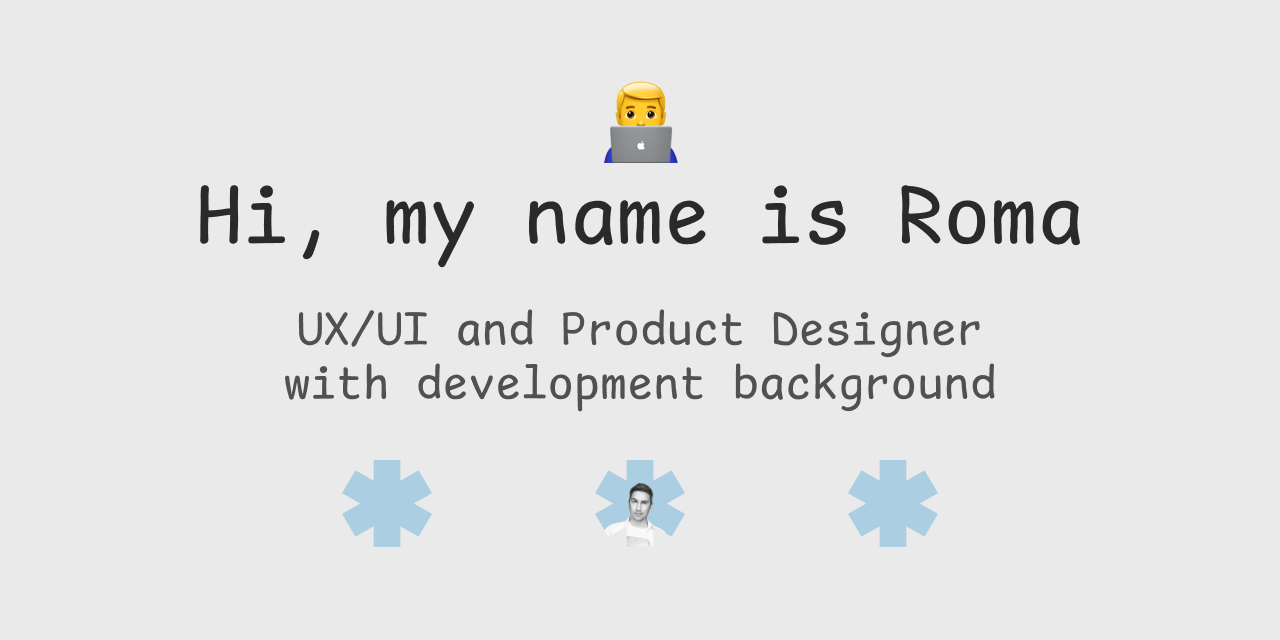
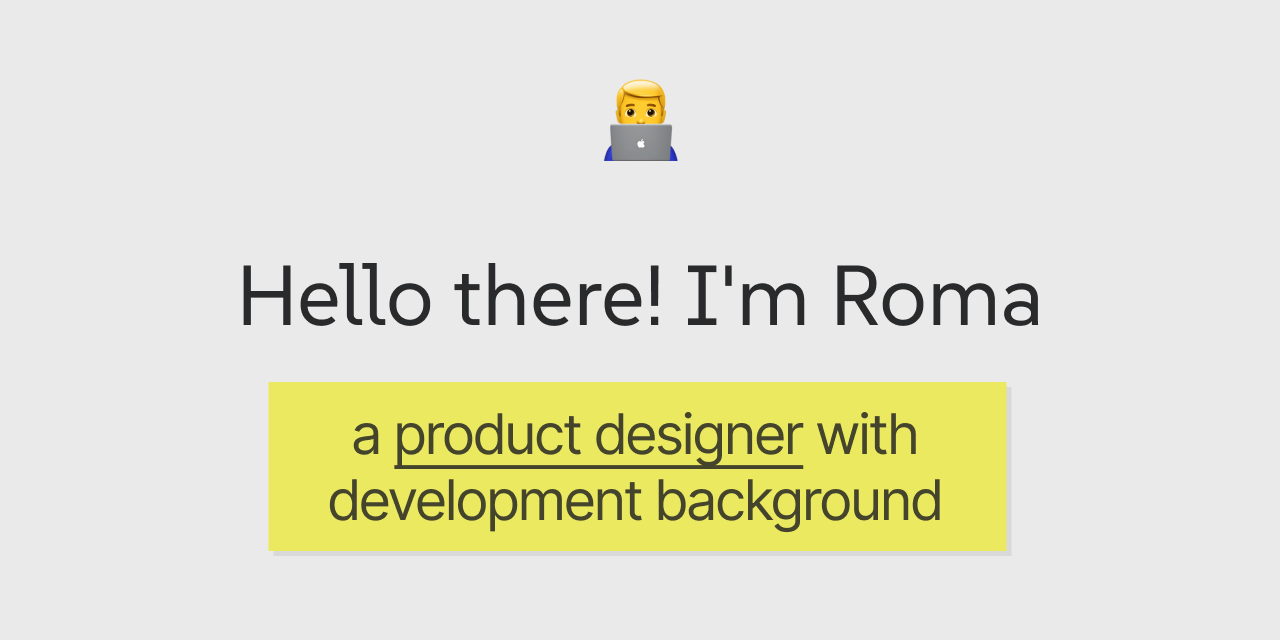
Update css and fonts

diff --git a/index.html b/index.html
@@ -7,26 +7,27 @@
   <meta name="viewport" content="width=device-width, initial-scale=1">
   <meta http-equiv="X-UA-Compatible" content="IE=edge">
   <!-- Site Properities-->
-  <title>👨💻 Roma Shuliatiev: UX/UI Designer with technical background</title>
-  <link rel="icon" type="image/svg+xml" href="favicon/favicon.svg">
-  <link rel="icon" type="image/png" href="favicon/favicon.png">
+  <title>Roma Shuliatiev: Product Designer</title>
+  <link rel="icon" href="favicon.ico" sizes="32x32">
+  <link rel="icon" href="icon.svg" type="image/svg+xml">
+  <link rel="apple-touch-icon" href="apple-touch-icon.png">
   <link rel="stylesheet" type="text/css" href="css/style.css" />
 
   <!-- Open Graph / Facebook -->
-  <meta name="title" content="👨💻 Roma Shuliatiev: UX/UI Designer with technical background" />
+  <meta name="title" content="Roma Shuliatiev: Product Designer" />
   <meta name="description" content="I design interfaces and help companies achieve their business goals" />
-  <meta name="theme-color" content="#9C9CDD">
-  <meta name="description" content="Roman Shuliatiev — UX/UI Designer with technical background" />
+  <meta name="theme-color" content="#FF4552">
+  <meta name="description" content="Roma Shuliatiev: Product Designer" />
   <meta name="apple-mobile-web-app-capable" content="yes">
   <meta name="apple-mobile-web-app-status-bar-style" content="black">
-  <meta name="apple-mobile-web-app-title" content="Roman Shuliatiev — UX/UI Designer with technical background">
-  <meta name="title" content="👋 Roman Shuliatiev — UX/UI Designer with technical background" />
+  <meta name="apple-mobile-web-app-title" content="Roma Shuliatiev: Product Designer">
+  <meta name="title" content="Roma Shuliatiev: Product Designer" />
   <meta name="description" content="I design interfaces and help companies achieve their business goals." />
 
   <!-- Open Graph / Facebook -->
   <meta property="og:type" content="website" />
   <meta property="og:url" content="https://n-apps.github.io/" />
-  <meta property="og:title" content="👨💻 Roma Shuliatiev: UX/UI Designer with technical background" />
+  <meta property="og:title" content="Roma Shuliatiev: Product Designer" />
   <meta property="og:description" content="I design interfaces and help companies achieve their business goals" />
   <meta property="og:image"
     content="https://raw.githubusercontent.com/n-apps/n-apps.github.io/master/images/social.jpg" />
@@ -35,7 +36,7 @@
   <!-- Twitter -->
   <meta property="twitter:card" content="summary_large_image" />
   <meta property="twitter:url" content="https://n-apps.github.io/" />
-  <meta property="twitter:title" content="👨💻 Roma Shuliatiev: UX/UI Designer with technical background" />
+  <meta property="twitter:title" content="Roma Shuliatiev: Product Designer" />
   <meta property="twitter:description" content="I design interfaces and help companies achieve their business goals" />
   <meta property="twitter:image"
     content="https://raw.githubusercontent.com/n-apps/n-apps.github.io/master/images/social.jpg" />
@@ -48,15 +49,14 @@
     </r-cell>
 
     <r-cell span="2-3" span-s="row">
-      <h1>👨💻<br> Hi, my name is Roma</h1>
-      <h3>I'm a UX/UI and Product Designer with technical background</h3>
+      <h1>👨💻</h1>
+      <h1>hello there! I'm Roma, a product designer with technical background</h1>  
       <p>My passion and responsibility lie in simplifying things, reducing frustration for <strike>users</strike>
         people, and helping companies achieve their business goals. I rely on data analytics and prefer
-        to base my decisions on statistics rather than subjective judgments. I have a strong
-        technical background, but I also consider user feedback and gut feeling to be crucial elements of my work.</p>
+        to base my decisions on statistics rather than subjective judgments.</p>
         <p>I always aim to make the development process smooth and transparent for my team.
         I have a diverse range of experience, including software development, graphic design, and managing
-        a team of three designers. I know my tools and work plug & play in your team and project structure.</p>
+        a team of three designers. I have a strong technical background, but I also consider user feedback and gut feeling to be crucial elements of my work.</p>
     </r-cell>
    
     <r-cell span="1-1" span-s="row">
@@ -68,13 +68,13 @@
 
     <!-- Yesim -->
     <r-cell span="2-4" span-s="row">
-      <h2>Yesim — Worldwide eSIM marketplace</h2>
-      <p class="single-line">2021–2024 | WEB, iOS, Android, cross-platform | <a href="https://yesim.app/">About</a></p>
+      <h2><a href="https://yesim.app/">Yesim — Worldwide eSIM marketplace ↗</a></h2>
+      <p class="single-line opacity8">2021–2024 | WEB, iOS, Android</p>
     </r-cell>
     <r-cell span="2-4" span-s="row">
-      <h4>Project details</h4>
-      <p class="opacity5 single-line">NDA</p>
-      <h4>My job and responsibilities</h4>
+      <h3>Project details</h3>
+      <p class="opacity8 single-line">NDA</p>
+      <h3>My job and responsibilities</h3>
       <ul class="compact">
         <li>Collaboration with product and development teams</li>
         <li>Develop and design user-centered concepts, flows, wireframes, and prototypes</li>
@@ -87,13 +87,13 @@
 
     <!-- SMBF -->
     <r-cell span="2-4" span-s="row" style="margin-top: calc(var(--lineHeight) * 2);">
-      <h2>SMBF — Online reputation platform</h2>
-      <p class="single-line">2020–2021 | web | <a href="https://smbf.me/">About</a></p>
+      <h2><a href="https://smbf.me/">SMBF — Online reputation platform ↗</a></h2>
+      <p class="single-line opacity8">2020–2021 | WEB</p>
     </r-cell>
     <r-cell span="2-4" span-s="row">
-      <h4>Project details</h4>
-      <p class="single-line opacity5">NDA</p>
-      <h4>My job and responsibilities</h4>
+      <h3>Project details</h3>
+      <p class="opacity8 single-line">NDA</p>
+      <h3>My job and responsibilities</h3>
       <ul class="compact">
         <li>Collaboration with product and development teams</li>
         <li>Develop and design user-centered concepts, flows, wireframes, and prototypes</li>
@@ -105,13 +105,13 @@
 
     <!-- Eventssion -->
     <r-cell span="2-4" span-s="row" style="margin-top: calc(var(--lineHeight) * 2);">
-      <h2>Eventssion — Event management and online ticketing platform</h2>
-      <p>2018–2020 | web, app, offline</p>
+      <h2><a href="https://betalist.com/startups/eventssion">Eventssion — Event management and online ticketing platform ↗</a></h2>
+      <p class="single-line opacity8">2018–2020 | WEB, iOS, Android, offline</p>
     </r-cell>
     <r-cell span="2-4" span-s="row">
-      <h4>Project details</h4>
+      <h3>Project details</h3>
       <p class="opacity8">From scratch to 50K users, app/web/internal tools</p>
-      <h4>Job duties and responsibilities</h4>
+      <h3>Job duties and responsibilities</h3>
       <ul class="compact">
         <li>Collaboration with Product and Development Teams</li>
         <li>Participated in the development of two Android apps using Java and related tools</li>
@@ -132,26 +132,25 @@
 
     <!-- Счетчик Очков -->
     <r-cell span="2-4" span-s="row">
-      <h2>[App] Score Counter</h2>
-      <p>2016–2024 | <a href="https://play.google.com/store/apps/details?id=ua.napps.scorekeeper">Play Store
-          (Android)</a></p>
+      <h2><a href="https://play.google.com/store/apps/details?id=ua.napps.scorekeeper">Score Counter — Android App ↗</a></h2>
+      <p class="single-line opacity8">2016–2024 | Android</p>
     </r-cell>
 
     <r-cell span="2-3" span-s="row">
-      <h4>Project details</h4>
+      <h3>Project details</h3>
       <p>Score Counter — Count Anything is the perfect solution for game nights, sports competitions, or any activity
         where you need to keep track of scores on the fly. With its simple and customizable design, this app
         makes score counting quick and easy, without any interruptions from ads. Whether you're tracking initiative, hit
         points (HP), spell slots, or even win streaks in your bar game night, Score Counter has you covered.
       </p>
-      <h4>My role</h4>
+      <h3>My role</h3>
       <ul class="compact">
         <li>Conceptualization and ideation of project ideas</li>
         <li>Full-cycle development and publishing of projects, including all related activities</li>
       </ul>
     </r-cell>
     <r-cell span="2-3" span-s="row">
-      <h4>I was proud to achieve the following results ✨</h4>
+      <h3>I was proud to achieve the following results</h3>
       <ul class="compact">
         <li>Ranked #1 in Google Play search results</li>
         <li>470K installs / 35,000 MAU</li>
@@ -162,69 +161,33 @@
     </r-cell>
     </r-cell>
 
-    <!-- Math Trade -->
-    <r-cell span="2-4" span-s="row" style="margin-top: calc(var(--lineHeight) * 4  );">
-      <h2>[Concept] Design for the Math Trade portal</h2>
-      <p>2022 | <a href="https://www.behance.net/gallery/139747473/Math-Trade-UA-Website-Redesign">Concept (Behance)</a>
-      </p>
-    </r-cell>
+<!-- Параграфус -->
 
-    <r-cell span="2-3" span-s="row">
-      <h4>Project details</h4>
-      <p>«Math Trade» is a unique platform that facilitates a simultaneous exchange of board games between
-        multiple individuals. Users add their games to the platform and create a personalized wishlist. The
-        algorithm then determines the optimal exchange, determining which user should send their game to another.
-        This system offers an efficient and convenient way for hobby enthusiasts to trade their board games
-        with one another</p>
-    </r-cell>
-    <r-cell span="2-3" span-s="row">
-      <h4>My role</h4>
-      <p>Redesign the portal section <a href="https://tg.in.ua/">tg.in.ua</a>. This redesign served as the
-        foundation for future collaboration with the portal's authors.</p>
-    </r-cell>
+<r-cell span="2-4" span-s="row" style="margin-top: calc(var(--lineHeight) * 4);">
+  <h1>Paragraphus — Short Passages From Books</h1>
+  <p class="single-line opacity8">2020 | Android App [discontinued ☠]</p>
+</r-cell>
+<r-cell span="2-3" span-s="row">
+  <h3>Project details</h3>
+  <p>Pagraphus is a unique app that presents users with random short passages from various books.
+    Users are asked to determine whether the passages are interesting or not. If the passage captures
+    their attention, they can discover the book's title and author. If not, they can simply swipe left to move
+    on to the next one.</p>
+  <p>The app allows users to explore both popular and lesser-known authors without bias, and ultimately find
+    a book that suits their taste.</p>
+</r-cell>
+<r-cell span="2-3" span-s="row">
+  <h3>My role</h3>
+  <ul class="compact">
+    <li>Conceptualization and ideation of project ideas</li>
+    <li>Full-cycle development and publishing of projects, including all related activities</li>
+  </ul>
+  <h3>Credits</h3>
+  <p>Style: <a href="https://t.me/ocaptainmycaptain228">Nikolay Sypko</a><br>
+    Original idea and content: <a href="https://nocover.ru/">nocover.ru</a></p>
+</r-cell>
 
-    <!-- Sorry for barking -->
-    <r-cell span="2-4" span-s="row" style="margin-top: calc(var(--lineHeight) * 4  );">
-      <h2>[Concept] Stickers «Sorry for barking!»</h2>
-      <p>2022 | <a href="https://www.behance.net/gallery/144607337/Stickers-Sorry-for-barking">Concept (Behance)</a></p>
-    </r-cell>
-
-    <r-cell span="2-3" span-s="row">
-      <h4>Project details</h4>
-      <p>This small roject aimed at creating stickers for dog owners whose dogs frequently bark. The stickers serve
-        to show neighbors that the dog owners are actively working on improving their dog's behavior.</p>
-    </r-cell>
-    <r-cell span="2-3" span-s="row">
-      <h4>My role</h4>
-      <p>I was responsible for the conceptualization and graphic design of the stickers.</p>
-    </r-cell>
-
-    <!-- Параграфус -->
-
-    <r-cell span="2-4" span-s="row" style="margin-top: calc(var(--lineHeight) * 4);">
-      <h1>[App] Paragraphus — Short Passages From Books</h1>
-      <p>2020 | Play Store (Android App) | discontinued ☠</p>
-    </r-cell>
-    <r-cell span="2-3" span-s="row">
-      <h4>Project details</h4>
-      <p>Pagraphus is a unique app that presents users with random short passages from various books.
-        Users are asked to determine whether the passages are interesting or not. If the passage captures
-        their attention, they can discover the book's title and author. If not, they can simply swipe left to move
-        on to the next one.</p>
-      <p>The app allows users to explore both popular and lesser-known authors without bias, and ultimately find
-        a book that suits their taste.</p>
-    </r-cell>
-    <r-cell span="2-3" span-s="row">
-      <h4>My role</h4>
-      <ul class="compact">
-        <li>Conceptualization and ideation of project ideas</li>
-        <li>Full-cycle development and publishing of projects, including all related activities</li>
-      </ul>
-      <h4>Credits</h4>
-      <p>Style: <a href="https://t.me/ocaptainmycaptain228">Nikolay Sypko</a><br>
-        Original idea and content: <a href="https://nocover.ru/">nocover.ru</a></p>
-    </r-cell>
-
+    
     <!-- Skills / Tools -->
     <r-cell span="1-1" span-s="row">
       <h4 class="section-title center opacity5">hard skills & tools ⚒</h4>
@@ -233,26 +196,26 @@
       <hr class="opacity5">
     </r-cell>
     <r-cell span="2-4" span-s="row">
-      <h4>🧠 Product Design, User Experience, Mobile App Design, A/B Testing, UX Writing</h4>
-      <h4>👨🎨 Figma, Adobe Tools</h4>
-      <h4>👨💻 Java, HTML/CSS, Firebase, SQL/BigQuery, Sendgrid</h4>
+      <h3>🧠 Product Design, User Experience, Mobile App Design, A/B Testing, UX Writing</h3>
+      <h3>👨🎨 Figma, Adobe Tools</h3>
+      <h3>👨💻 Java, HTML/CSS, Firebase, SQL/BigQuery, Sendgrid</h3>
     </r-cell>
 
    
     <r-cell span="1-1" span-s="row">
-      <h4 class="section-title center opacity5">Get in Touch 🎹</h4>
+      <h4 class="section-title center opacity5">links 🎹</h4>
     </r-cell>
     <r-cell span="2-4" span-s="row">
       <hr class="opacity5">
     </r-cell>
     <r-cell span="2-4" span-s="row">
-        <p><a href="mailto:roman.novodvorskiy@gmail.com">Email</a>  ↗</p>
-        <p><a href="https://drive.google.com/file/d/12M837NJMUpf4JkK4nffzKsV-qFFwbs0b/view?usp=sharing">CV</a>  ↗</p>
-        <p><a href="https://t.me/artificially_busy">Telegram</a>  ↗</p>
-        <p><a href="https://linkedin.com/in/romashuliatiev">Linkedin</a>  ↗</p>
-        <p><a href="https://github.com/n-apps">Github</a>  ↗</p>
-        <p><a href="https://www.behance.net/artificially_busy">Behance</a>  ↗</p>
-        <p><a href="https://open.spotify.com/user/artificially_busy?si=FGW7GE86SXmipcw9meJHpQ">Spotify</a>  ↗</p>
+        <h4><a href="https://drive.google.com/file/d/12M837NJMUpf4JkK4nffzKsV-qFFwbs0b/view?usp=sharing">Resume</a>  ↗</h4>
+        <h4><a href="https://linkedin.com/in/romashuliatiev">Linkedin</a>  ↗</h4>
+        <h4><a href="https://t.me/artificially_busy">Telegram</a>  ↗</h4>
+        <h4><a href="https://github.com/n-apps">Github</a>  ↗</h4>
+        <h4><a href="https://www.behance.net/artificially_busy">Behance</a>  ↗</h4>
+        <h4><a href="mailto:roman.novodvorskiy@gmail.com">Email</a>  ↗</h4>
+        <h4><a href="https://open.spotify.com/user/artificially_busy?si=FGW7GE86SXmipcw9meJHpQ">Spotify</a>  ↗</h4>
     </r-cell>
     <r-cell span="1-1" span-s="row">
       <h4 class="section-title center opacity5">misc. stuff 🕸</h4>
@@ -271,8 +234,10 @@
       </r-grid>
     </r-cell>
 
+    <!-- Footer -->
+
     <r-cell span="row">
-      <footer id="footer"><p class="center single-line opacity4"><strike class="opacity2">2021—2023 sucks</strike> 2024 still sucks :(</p>
+      <footer id="footer"><p class="center single-line opacity4">©2024</p>
       </footer>
     </r-cell>
   </r-grid>

diff --git a/css/style.css b/css/style.css
@@ -1,4 +1,5 @@
 @import url('https://fonts.googleapis.com/css2?family=SUSE:wght@300..700&display=swap');
+@import url('https://fonts.googleapis.com/css2?family=Inter+Tight:wght@400..7000&display=swap');
 
 /*
 
@@ -24,7 +25,7 @@ Variables
 } */
 
 :root {
-  --sansFont: "Onest", ui-sans-serif, system-ui, sans-serif;
+  --sansFont:"Inter Tight", ui-sans-serif, system-ui, sans-serif;
   --displayFont:"SUSE", ui-serif, Charter, "Bitstream Charter", "Sitka Text", Cambria, serif;
   /* line height is the basis for vertical spacing */
   --lineHeight: calc(var(--fontSize) * 1.5);
@@ -47,12 +48,13 @@ Variables
   --displayScale: 1;
   --pixel: 1px;
   /* Colors */
-  --foreground-color-rgb: 0, 0, 0;
+  --foreground-color-rgb: 52, 52, 61;
   --foreground-color-a: 1;
   --foreground-color: rgba(var(--foreground-color-rgb), var(--foreground-color-a));
   --background-color: #ffffff;
-  --text-decoration-color: rgba(var(--foreground-color-rgb), 0.5);
-  --accent-color: #9C9CDD;
+  --accent-color: #FF4552;
+  --text-decoration-color:#FF4552;
+
 }
 
 @media only screen and (-webkit-min-device-pixel-ratio: 1.5), only screen and (min-device-pixel-ratio: 1.5), only screen and (min-resolution: 1.5dppx) {
@@ -1336,7 +1338,8 @@ html {
   font-size: var(--fontSize);
   font-weight: 400;
   font-style: normal;
-  font-optical-sizing: auto;
+  font-feature-settings: normal;
+  font-variation-settings: normal;
   line-height: var(--lineHeight);
   background: var(--background-color);
   color: var(--foreground-color);
@@ -1800,8 +1803,8 @@ h1>a:hover, h2>a:hover, h3>a:hover, h4>a:hover,
 h5>a:hover, h6>a:hover, .h1>a:hover, .h2>a:hover, .h3>a:hover,
 .h4>a:hover, .h5>a:hover, .h6>a:hover {
   text-decoration: underline;
-  -webkit-text-decoration: underline rgba(0, 0, 0, 0.3);
-  text-decoration: underline rgba(0, 0, 0, 0.3);
+  -webkit-text-decoration: underline  var(--text-decoration-color);
+  text-decoration: underline  var(--text-decoration-color);
   color: inherit;
 }
 
